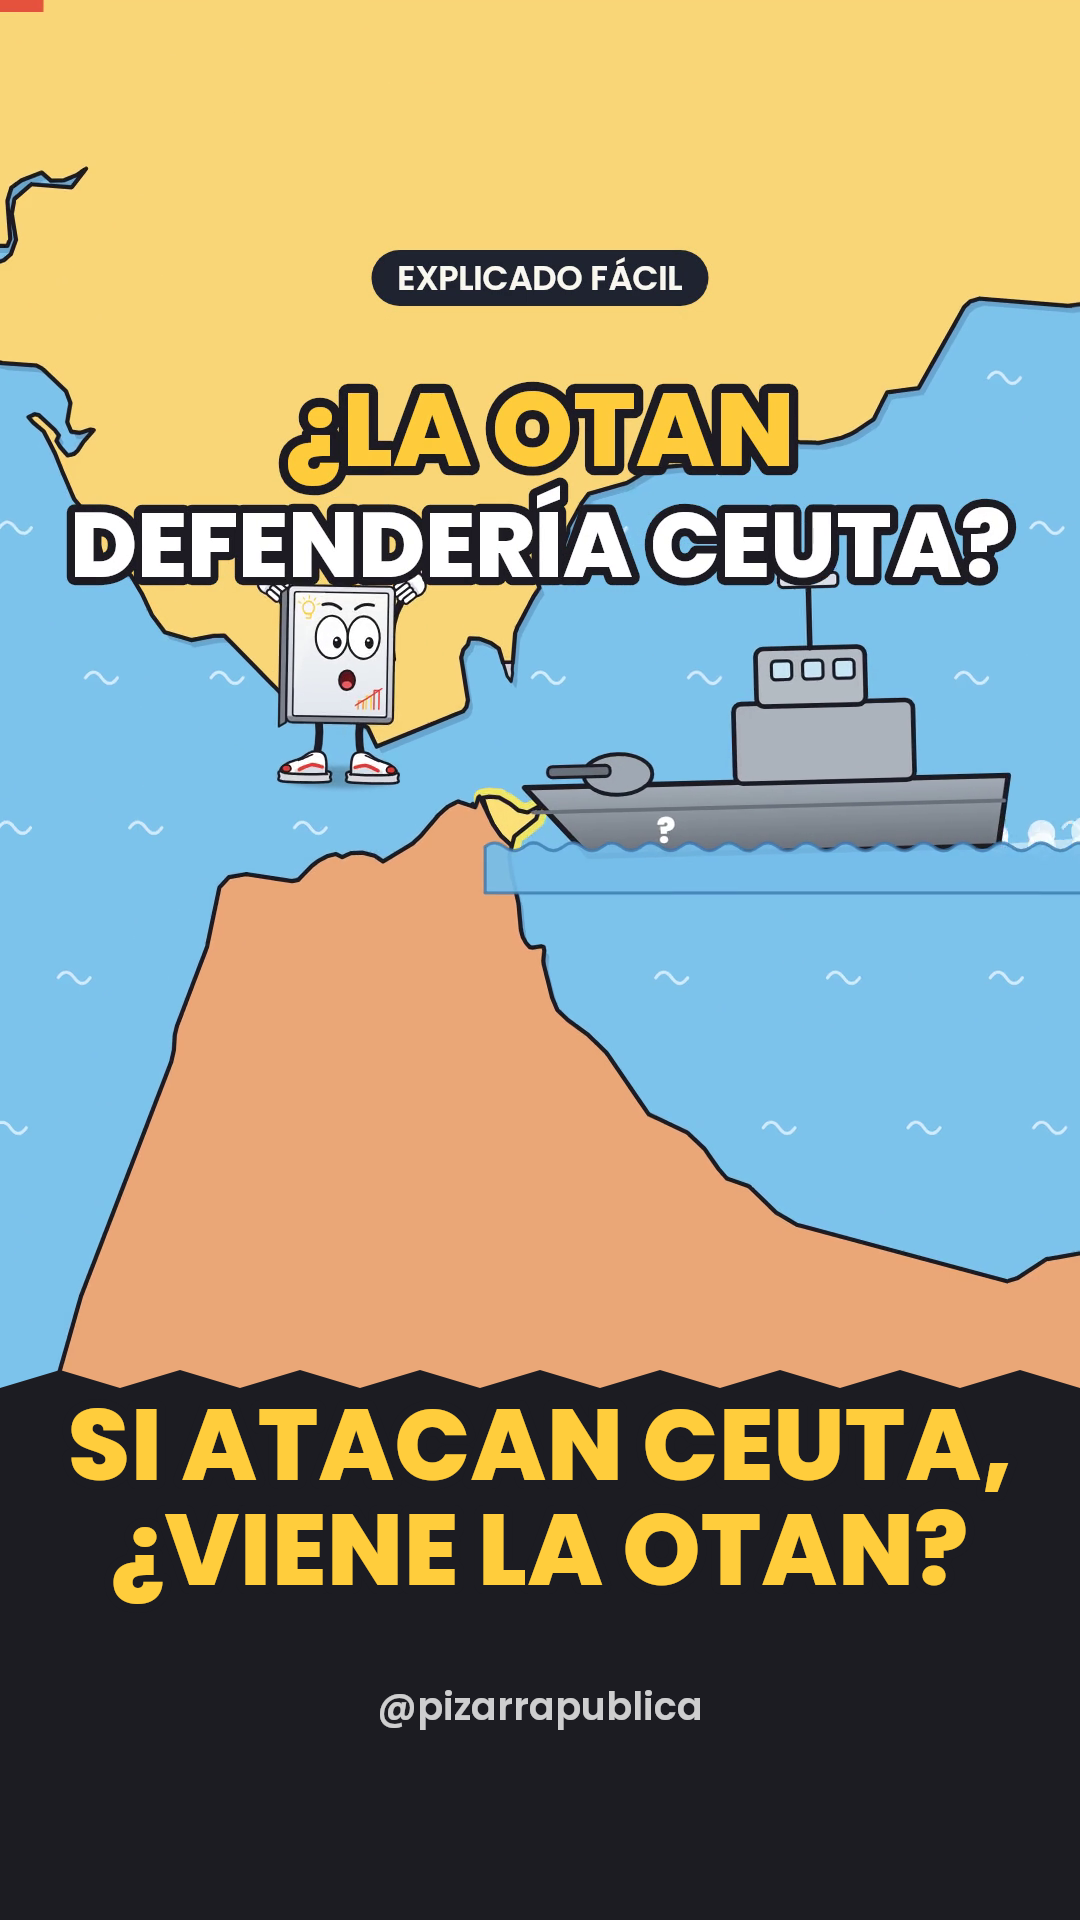
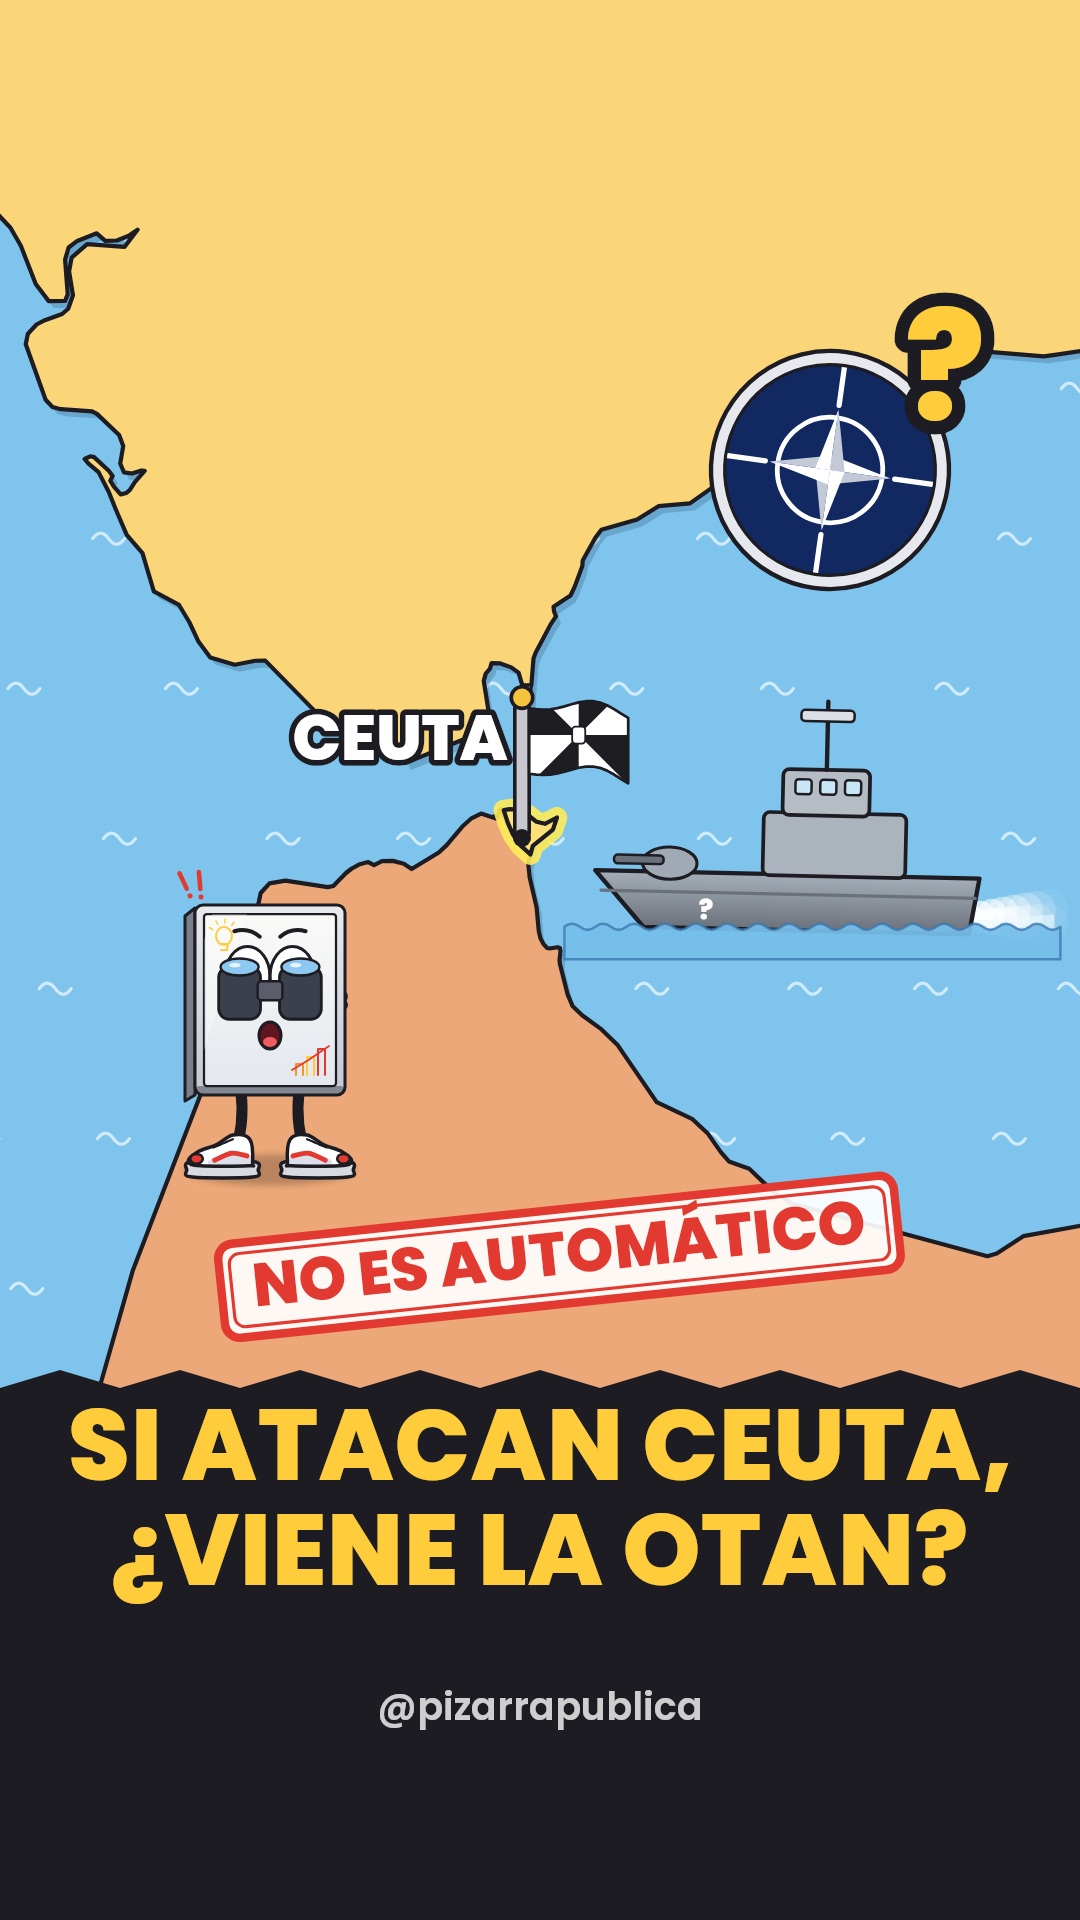
Portada dibujada y descripción final de «Si atacan Ceuta, ¿viene la OTAN?»
Claude-Session: https://claude.ai/code/session_01WBkGeifRqo2GKe737HSJtK

Changed region(s): [[0.0, 0.0938, 1.0, 0.7188], [0.3361, 0.125, 0.6722, 0.1562], [0.0, 0.0, 0.0306, 0.0312]]

diff --git a/pipeline/series/portada_ceuta_otan.py b/pipeline/series/portada_ceuta_otan.py
@@ -1,0 +1,63 @@
+"""Portada propia de «Si atacan Ceuta, ¿viene la OTAN?» (dibujada, no un fotograma).
+
+Estrecho dibujado con Ceuta resaltada, un buque sin identificar frente a Ceuta, Piz vigilando con
+prismáticos, la chapa de la OTAN con interrogante y el sello «NO ES AUTOMÁTICO».
+Uso: python3 series/portada_ceuta_otan.py [salida.png]
+"""
+import os
+import sys
+
+import skia
+
+HERE = os.path.dirname(os.path.abspath(__file__))
+sys.path.insert(0, os.path.join(HERE, ".."))
+import portada  # noqa: E402
+from universo import mapas, mundo, personajes  # noqa: E402
+from universo.estilo import texto_cartoon  # noqa: E402
+
+W, H = 1080, 1920
+ZOOM = 6.0
+FOCO = (540, 830)  # dónde cae Ceuta en pantalla
+
+
+def main(salida):
+    s = skia.Surface(W, H)
+    c = s.getCanvas()
+    cx, cy = mapas.punto("estrecho", -5.32, 35.89)
+    # mapa del Estrecho con Ceuta resaltada
+    c.save()
+    c.translate(*FOCO); c.scale(ZOOM, ZOOM); c.translate(-cx, -cy)
+    c.save(); c.translate(540, 820)
+    mapas.mapa(c, 0.4, "estrecho", resalta=["Ceuta"],
+               orden=["Spain", "Portugal", "Gibraltar", "Ceuta", "Morocco", "Melilla"])
+    c.restore()
+    c.restore()
+    # Ceuta marcada con su bandera
+    c.save(); c.translate(522, 838); c.scale(0.9, 0.9)
+    mundo.chincheta(c, 0.3, diseno="ceuta")
+    c.restore()
+    texto_cartoon(c, "CEUTA", 400, 760, 64, color="blanco", fuente="sub")
+    # buque sin identificar frente a Ceuta
+    c.save(); c.translate(800, 860); c.scale(0.62, 0.62)
+    mundo.barco(c, 0.3, bandera=None, numero="?", rumbo=-1)
+    c.restore()
+    # chapa de la OTAN con interrogante
+    c.save(); c.translate(830, 470); c.rotate(8); c.scale(0.62, 0.62)
+    mundo.otan(c, 0.3, texto=False)
+    c.restore()
+    texto_cartoon(c, "?", 945, 420, 150, color="amarillo", fuente="sub")
+    # Piz vigilando
+    c.save(); c.translate(270, 1000); c.scale(0.5, 0.5)
+    personajes.dibuja(c, "piz", cara="sorpresa", pose="prismaticos", objeto="prismaticos", t=0.3)
+    c.restore()
+    # sello
+    c.save(); c.translate(560, 1262); c.scale(1.05, 1.05)
+    mundo.sello(c, 0.3, texto="NO ES AUTOMÁTICO", color="rojo")
+    c.restore()
+    portada.dibuja(c, "Si atacan Ceuta, ¿viene la OTAN?")
+    s.makeImageSnapshot().save(salida, skia.kPNG)
+    print(salida)
+
+
+if __name__ == "__main__":
+    main(sys.argv[1] if len(sys.argv) > 1 else os.path.join(HERE, "..", "..", "videos", "ceuta_otan", "portada_ceuta_otan.png"))
